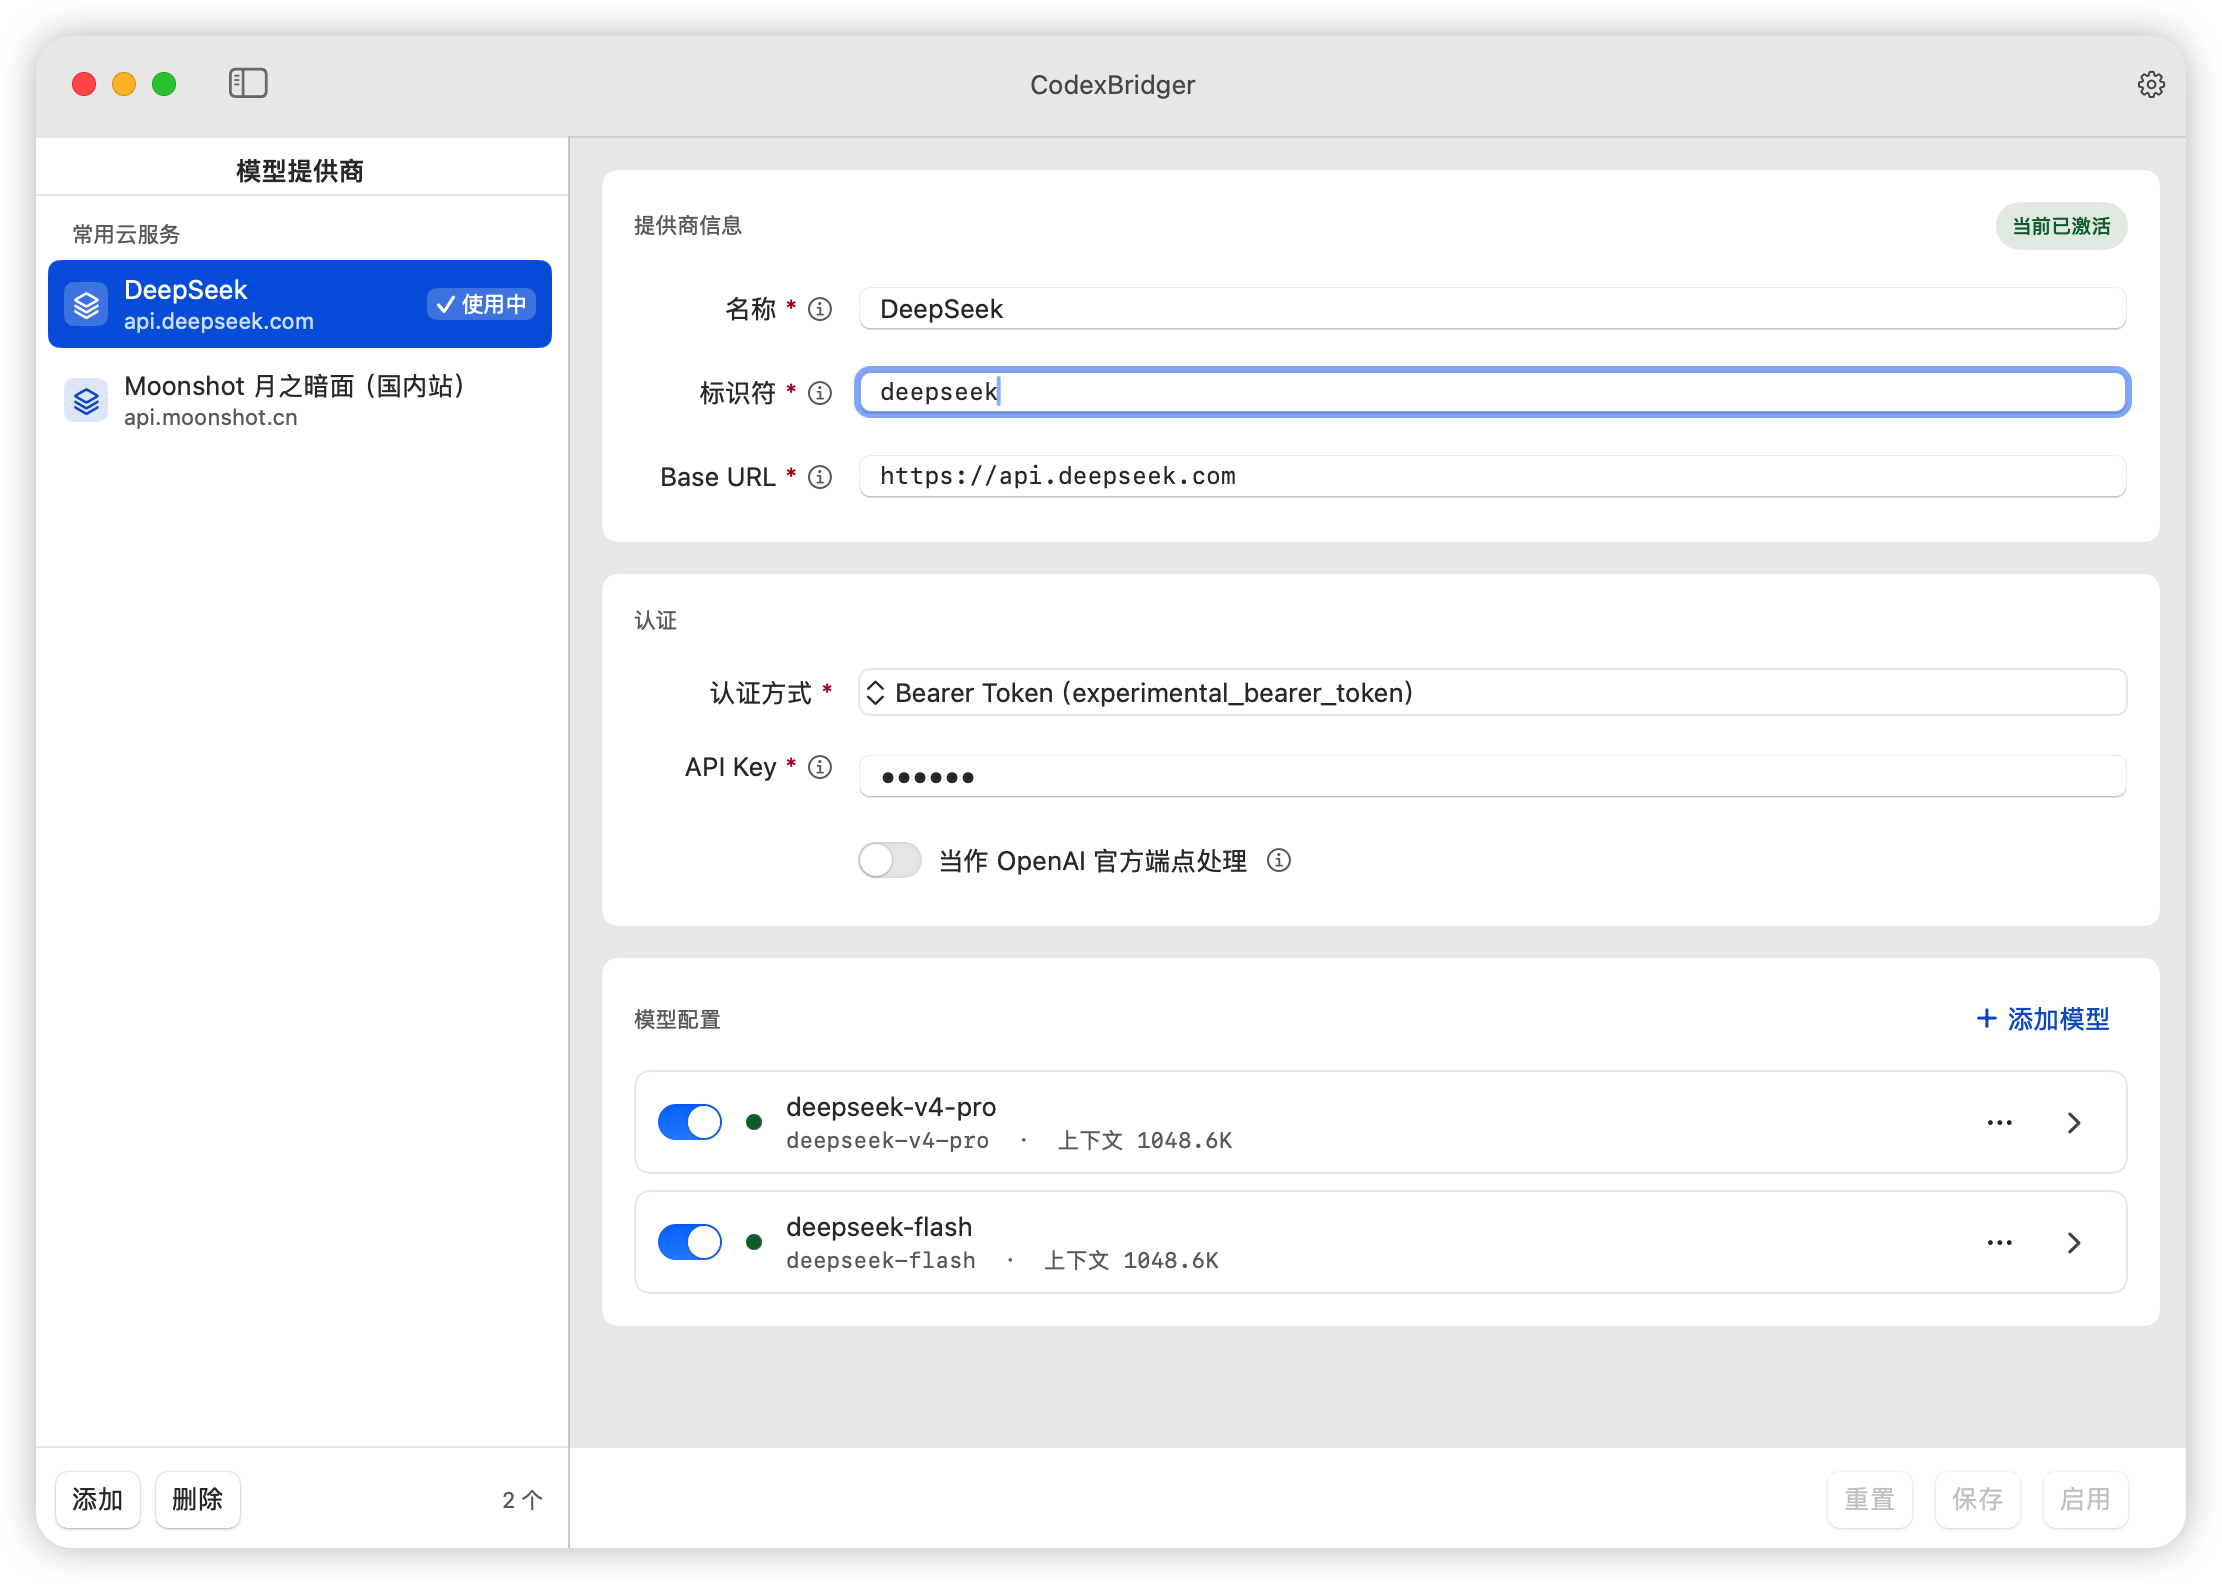
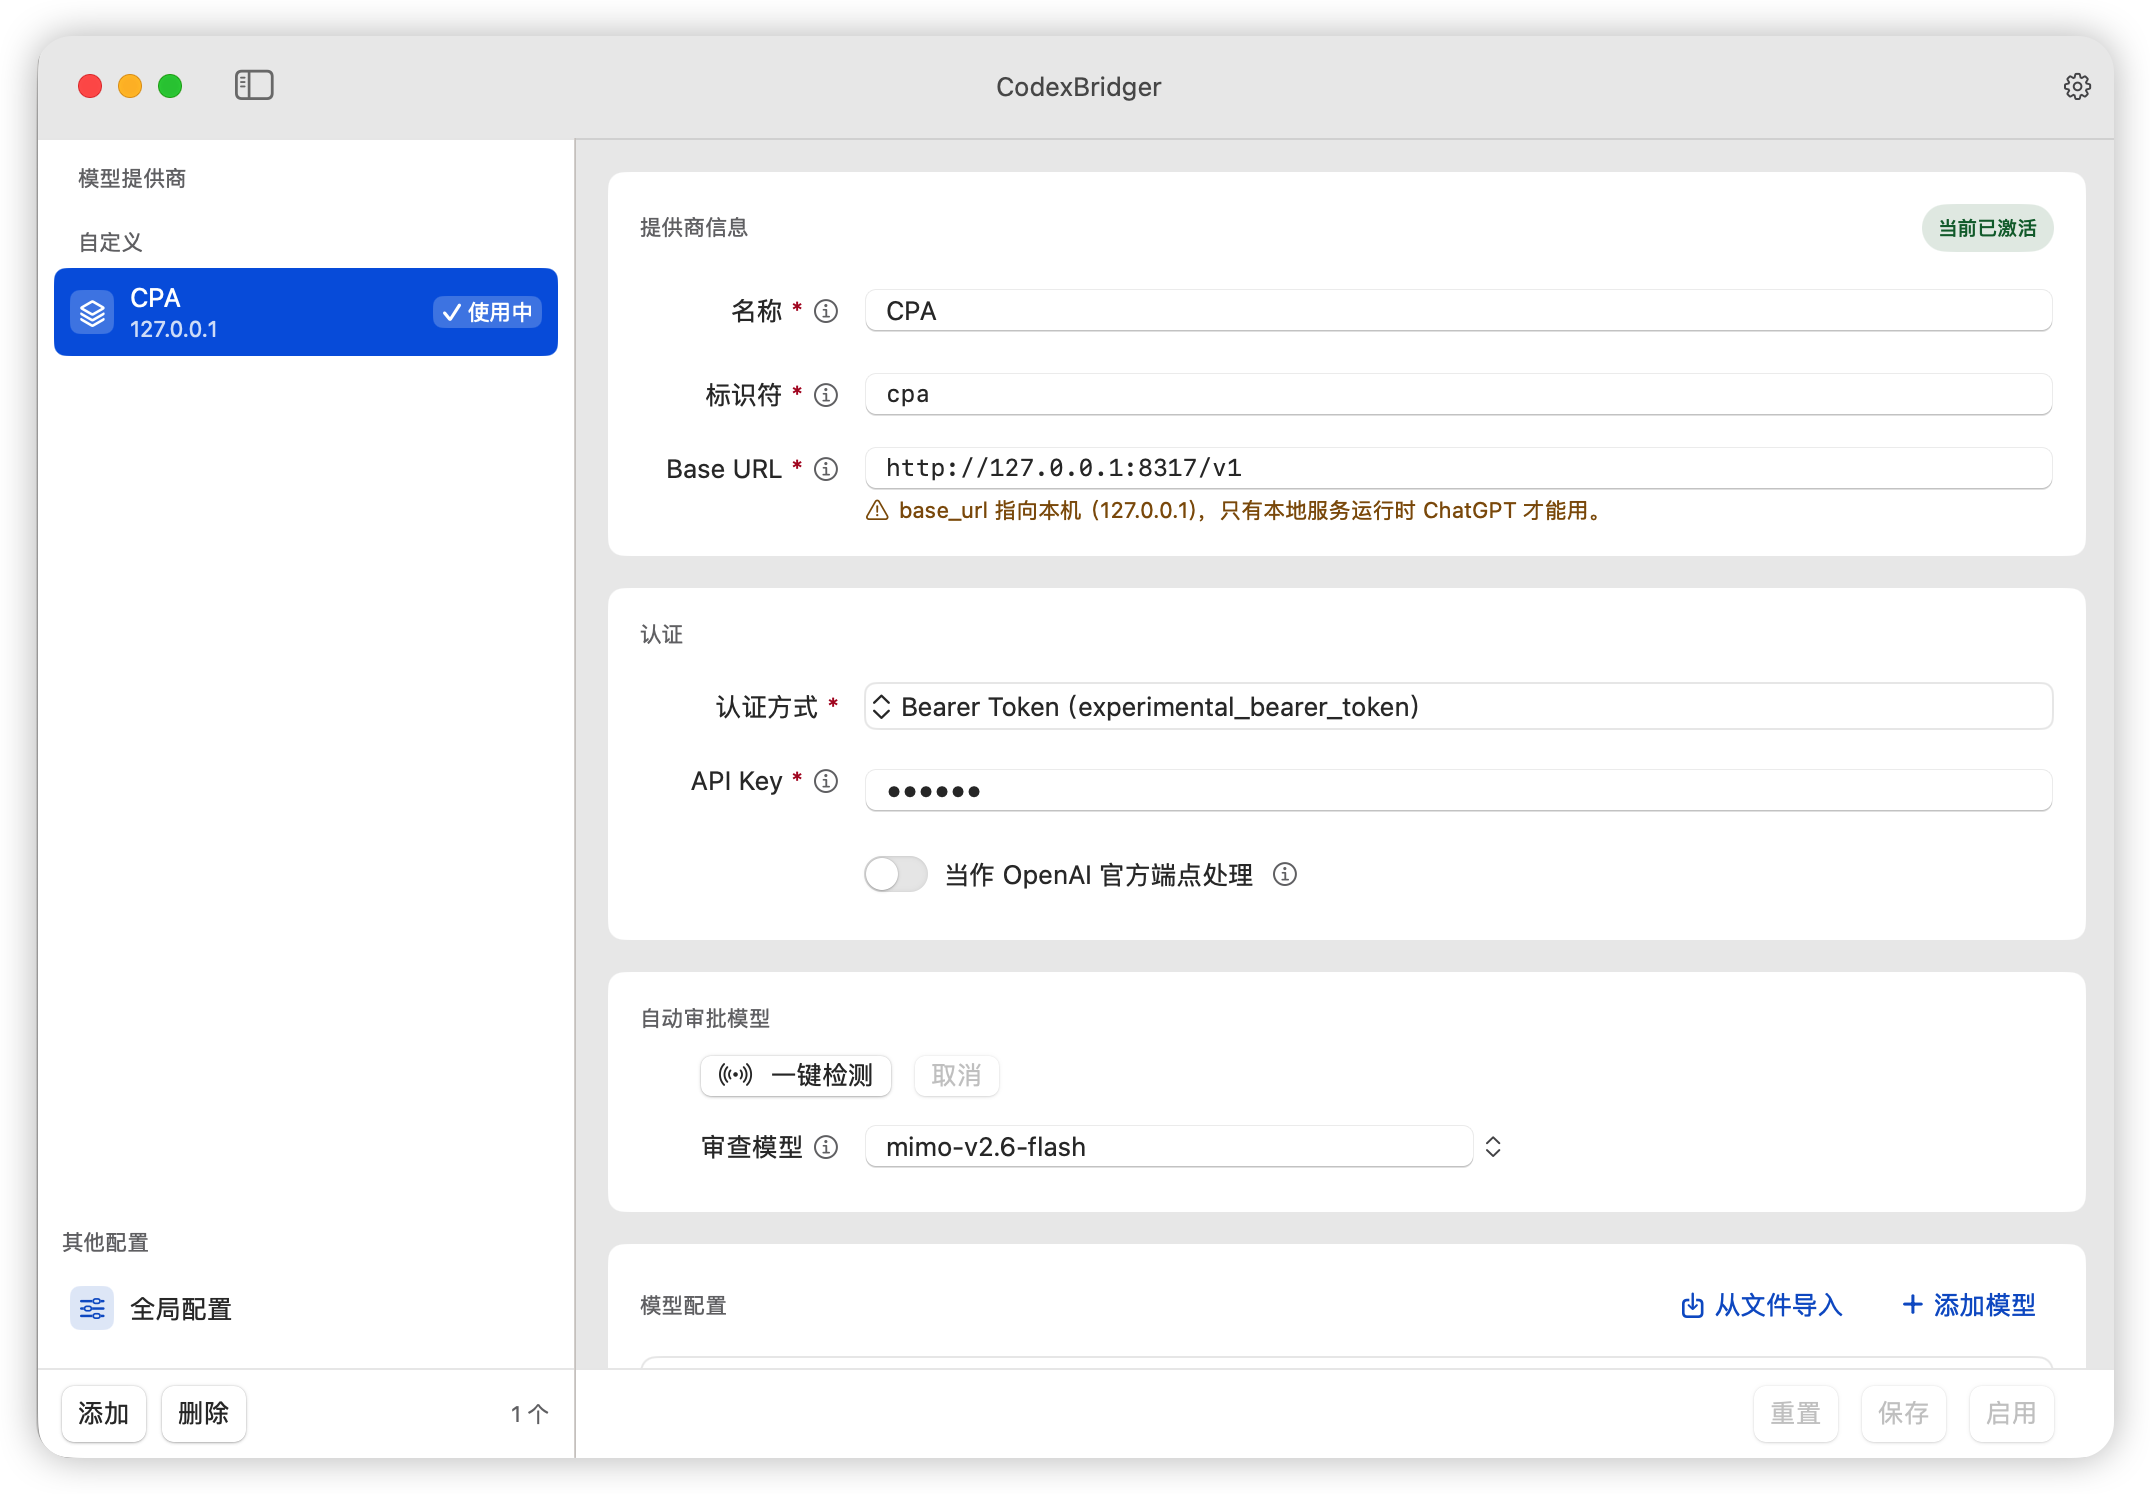
docs: refresh screenshots and add global-settings reference
- ScreenShot1: refresh
- ScreenShot3: new, shows the Global settings page where
  approvals_reviewer must be set to auto_review for the 1.3.0
  reviewer to actually run.
- README (zh/en): add the screenshot to the 1.3.0 section so the
  prerequisite is documented next to the feature it enables.

diff --git a/README_EN.md b/README_EN.md
@@ -38,6 +38,13 @@ Not every third-party model can run Codex's auto-approval reviewer - the reviewe
 <p align="center">
   <img src="auto-review-section.png" alt="Auto-review model: one-click check, completion summary, and an editable combo for the reviewer" width="720">
 </p>
+For the reviewer to actually run, also flip **`approvals_reviewer` to `auto_review`** on the **Global settings** page - otherwise the prompts go to you, not to a sub-agent.
+
+<p align="center">
+  <img src="ScreenShot3.png" alt="Global settings: enable auto-approval review" width="720">
+</p>
+
+
 
 Notes on the design: the verdict follows the order of a real Codex harness call (not a completed response, strip markdown fences, not JSON, not an object, wrong keys, bad decision value). Strict schema is sent on the `/responses` wire; if the provider has no Responses endpoint at all, the probe falls back to `/chat/completions` automatically. Results are cached inside this app's own configuration file (**never includes any credential**) and survive a restart; if the model list has changed since the last scan, a "results may be stale" hint appears.
 

diff --git a/README.md b/README.md
@@ -38,6 +38,13 @@ CodexBridger 是一个 macOS 配置管理软件。你在界面里填好「提供
 <p align="center">
   <img src="auto-review-section.png" alt="自动审批模型：一键检测按钮、检测完成摩要、可编辑下拉选择审查模型" width="720">
 </p>
+上面这一步要真正起作用，还要在「**全局配置**」页面把 `approvals_reviewer` 改为 `auto_review`：否则起动起来是你自己调 Codex不是子代理。
+
+<p align="center">
+  <img src="ScreenShot3.png" alt="全局配置：启动自动审批复核" width="720">
+</p>
+
+
 
 设计要点：脚本逻辑来自一个真实 Codex harness 调用拟合出来的判定顺序（响应不是已完成的审查结果 → markdown 围栏剥离 → 不是 JSON → 不是对象 → 键不对 → 决策值非法）。严格 schema 在 `/responses` 端点上跑；如果提供商根本没有 Responses 端点，自动回退到 `/chat/completions`。检测结果缓存在本软件配置里（**不含任何凭据**），下次打开还在；模型列表如果变动了会标"可能过期"提醒重测。
 
